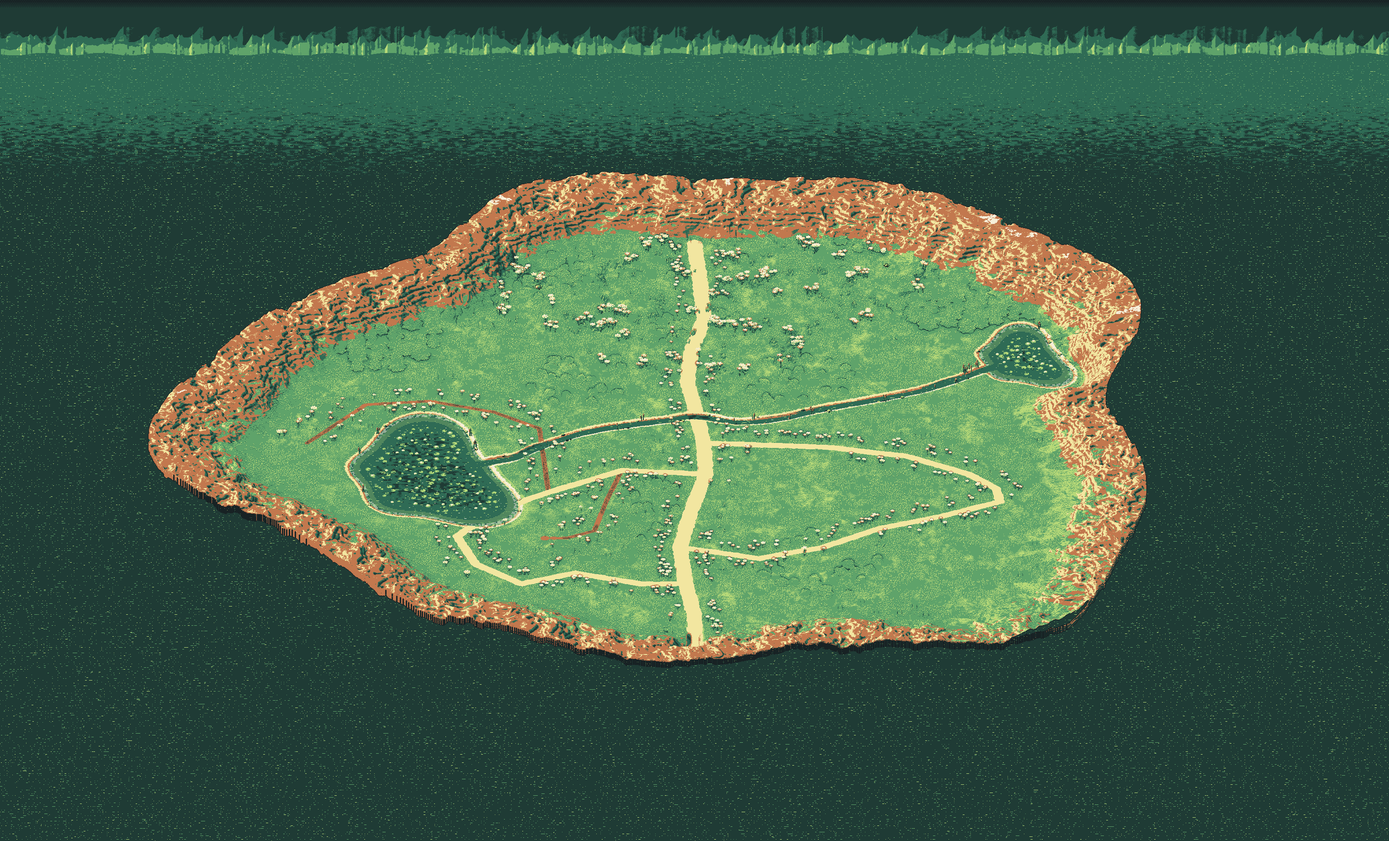
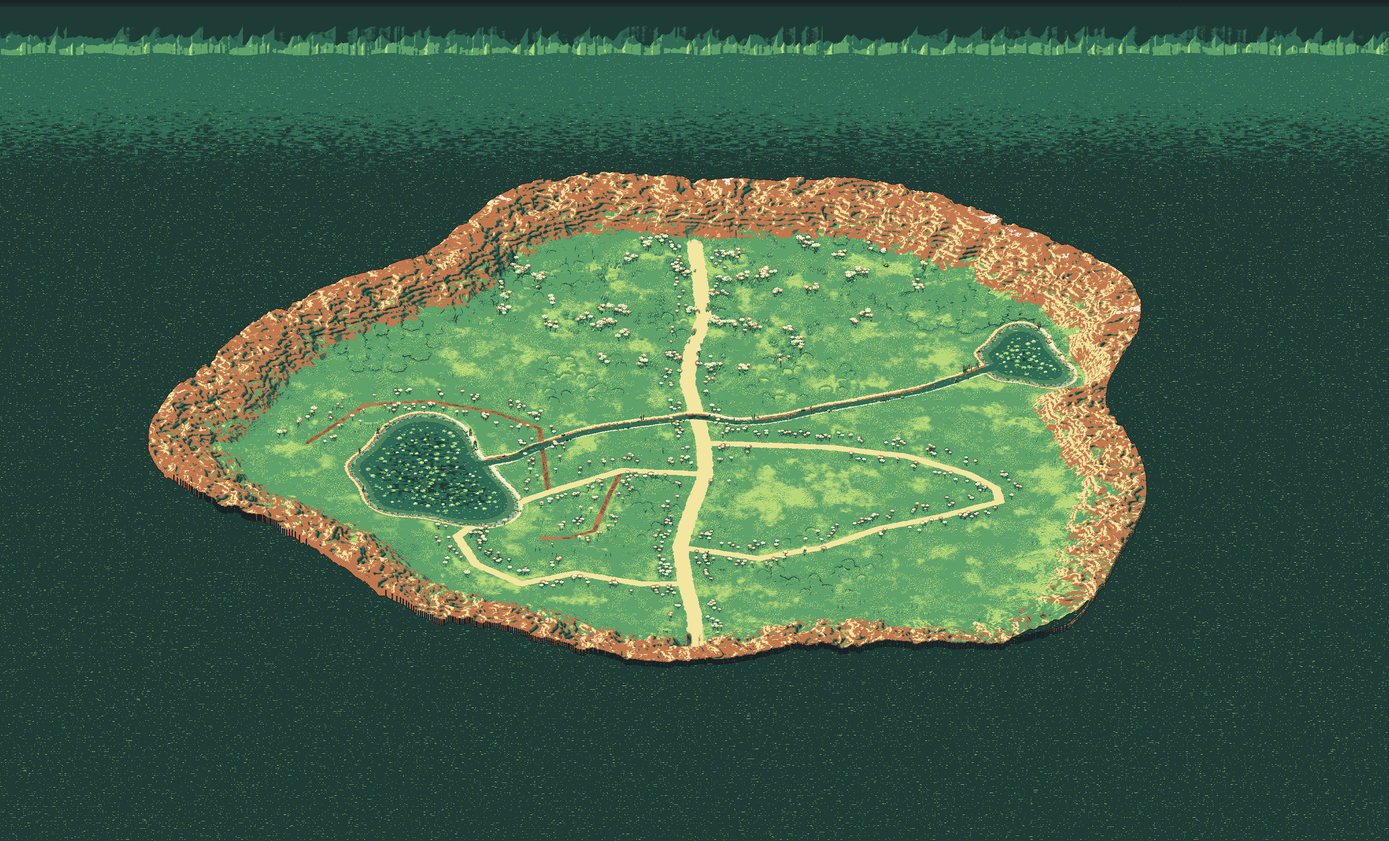
Restyle Larkmoor grass with clump blades on patch shading
Adds grass style G to tools/art/grass_tex.py: large warm and cool
light patches with dense blade clumps standing in them and bare lawn
between. Makes G the default in gen_larkmoor.py and gen_meadow3d.py,
and regenerates the Larkmoor ground layers (ground, ground_fg,
ground_n). Palette stays the eight-role set, so the change is in the
ground art only.

Claude-Session: https://claude.ai/code/session_01Pmx9dT3qdV6buBzqN7myn4

Changed region(s): [[0.1562, 0.2788, 0.7812, 0.7745]]

diff --git a/tools/art/grass_tex.py b/tools/art/grass_tex.py
@@ -131,7 +131,26 @@ def style_stalks(XX, YY, nz):
     return D + np.clip(T, DARK, LIGHT)
 
 
-STYLES = {'a': style_clusters, 'b': style_bands, 'c': style_strokes, 'd': style_clumps, 'e': style_blades, 'f': style_stalks}
+def style_clumpblades(XX, YY, nz):
+    """G (Fresh Meadow M2): big organic light patches, warm and cool, with dense 1-texel blade clumps standing in them
+    and bare lawn between the clumps. Patches move a texel along the grass ramp, the blades add the crown and base
+    contrast, so the grass reads as varied shading at 1x without a noise grid. Chosen from the M2 mockup (Nathan)."""
+    H, W = XX.shape; fbm2 = nz['fbm2']
+    D = (fbm2(XX / 56.0, YY * 2 / 56.0, 3, 101) - .5) * .42 + (fbm2(XX / 90.0, YY * 2 / 90.0, 2, 102) - .5) * .16
+    px, py, r = _anchors(W, H, 3, 3, 35)
+    dens = fbm2(px / 26.0, py * 2 / 26.0, 3, 103)
+    keep = r < np.clip((dens - .40) * 3.6, 0, .9)                      # clumps gather where the field is high
+    px, py, r2 = px[keep], py[keep], r[keep]
+    tall = (r2 * 7919 % 1.0) < .55
+    T = np.zeros((H, W))
+    for sel, shape in ((tall, [(0, -3, LIGHT), (0, -2, LIGHT), (0, -1, LIGHT), (0, 0, DARK), (1, 0, DARK * .5)]),
+                       (~tall, [(0, -2, LIGHT), (0, -1, LIGHT), (0, 0, DARK), (1, 0, DARK * .5)])):
+        _stamp(T, px[sel], py[sel], shape)
+    return D + np.clip(T, DARK, LIGHT)
+
+
+STYLES = {'a': style_clusters, 'b': style_bands, 'c': style_strokes, 'd': style_clumps, 'e': style_blades, 'f': style_stalks,
+          'g': style_clumpblades}
 
 
 def apply(style, l, mask, XX, YY, nz):

diff --git a/tools/art/gen_larkmoor.py b/tools/art/gen_larkmoor.py
@@ -19,7 +19,7 @@ assert not _ON_PATH, 'pads sit on or against a path (move them in larkmoor_layou
 _OFF = LAY.rows_off()
 assert not _OFF, 'pad rows must hug a path and not overlap (tools/art/plan_rows.py): %r' % (_OFF,)
 import depth_pass, grass_tex
-GRASS = os.environ.get('GRASS', 'f')    # grass texture style (tools/art/grass_tex.py); 'old' = previous noise patches
+GRASS = os.environ.get('GRASS', 'g')    # grass texture style (tools/art/grass_tex.py): g = clump blades on patch shading (M2); 'old' = previous noise patches
 DEPTH_ON = '--no-depth' not in sys.argv     # --no-depth reproduces the old flat render for before/after shots
 DEPTH = None
 OUT = os.environ.get('LARK_OUT') or os.path.join(HERE, '..', '..', 'assets', 'art', 'zone1b', 'larkmoor')

diff --git a/tools/art/gen_meadow3d.py b/tools/art/gen_meadow3d.py
@@ -7,7 +7,7 @@ import numpy as np, math, random, json, os, sys, time
 from PIL import Image
 sys.path.insert(0, os.path.dirname(os.path.abspath(__file__)))
 import depth_pass, grass_tex
-GRASS = os.environ.get('GRASS', 'f')    # grass texture style (tools/art/grass_tex.py); 'old' = previous noise patches
+GRASS = os.environ.get('GRASS', 'g')    # grass texture style (tools/art/grass_tex.py): g = clump blades on patch shading (M2); 'old' = previous noise patches
 HERE = os.path.dirname(os.path.abspath(__file__))
 FAST = '--fast' in sys.argv
 DEPTH_ON = '--no-depth' not in sys.argv     # --no-depth reproduces the old flat render for before/after shots

diff --git a/changelog.d/ground-grass-shading.patch.md b/changelog.d/ground-grass-shading.patch.md
@@ -1,0 +1,1 @@
+Grass on the Larkmoor ground now varies in shading across warm and cool patches, with blade clumps standing in the patches.
